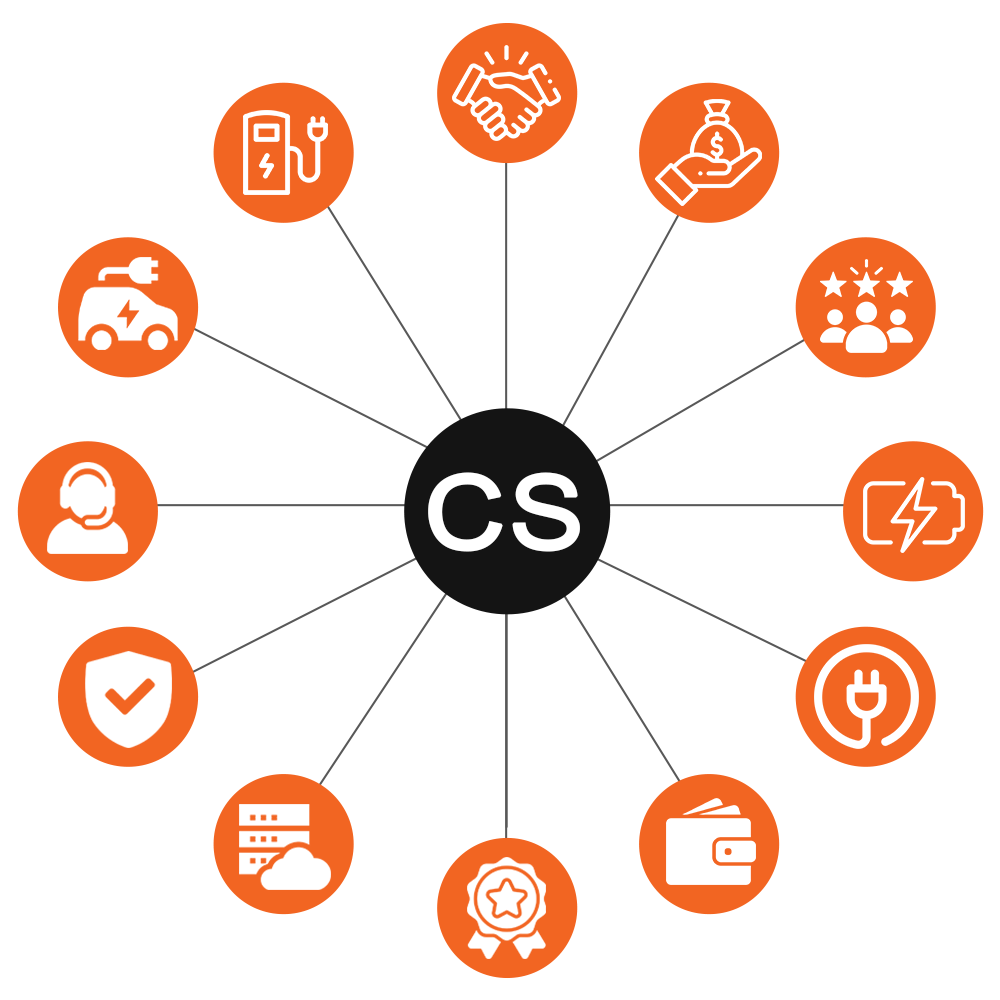
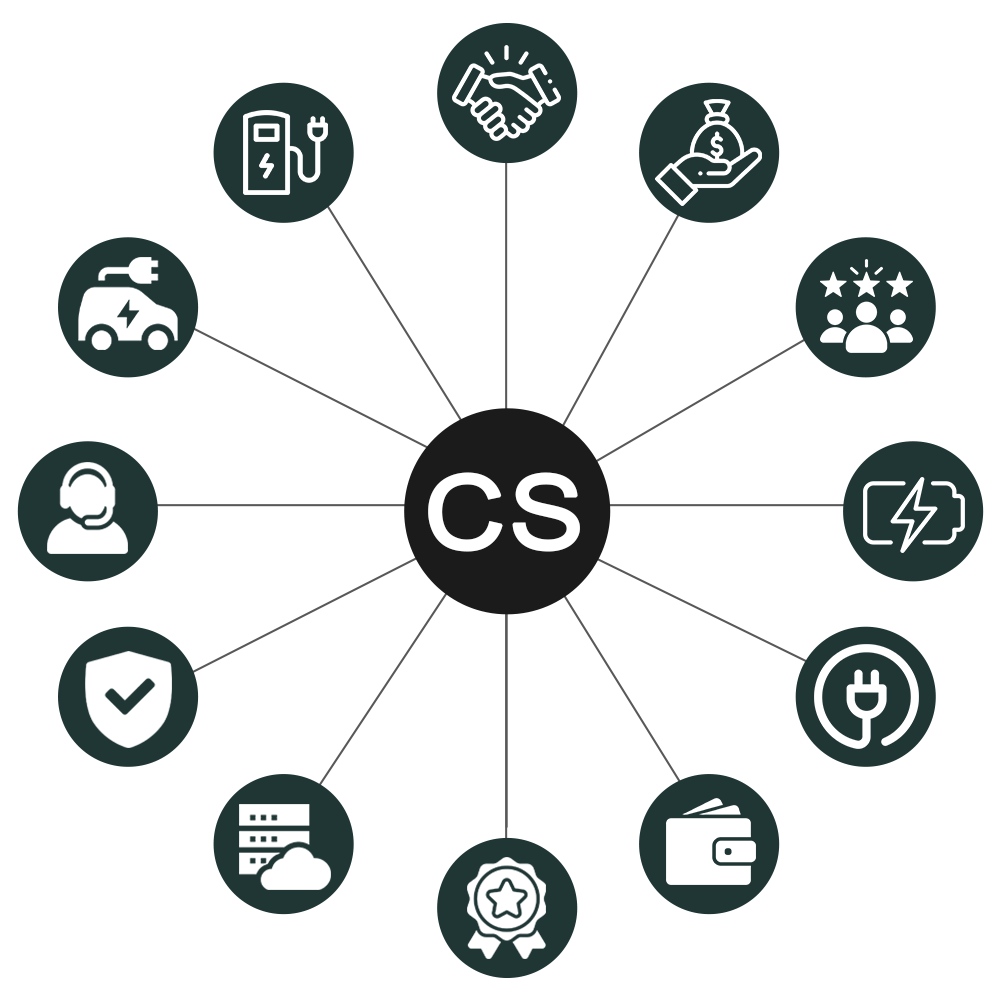
add contact page and about us page

diff --git a/assets/css/main.css b/assets/css/main.css
@@ -538,7 +538,7 @@ section {
     inset: 0;
     padding: 50px 0 10px 0;
     margin: 0;
-    background: #f26522;
+    background: #17a398;
     overflow-y: auto;
     transition: 0.3s;
     z-index: 9998;
@@ -594,7 +594,7 @@ section {
     padding: 10px 0;
     margin: 10px 20px;
     transition: all 0.5s ease-in-out;
-    background-color: #f26522;
+    background-color: #17a398;
 
   }
 
@@ -3505,9 +3505,10 @@ a:hover {
   -ms-flex-align: center;
   align-items: center;
   border-radius: 6px;
-  background-color: #f26522;
+  background-color: #17a398;
   color: #fff;
   cursor: pointer;
+  border: none;
 }
 
 .sub-send-btn {

diff --git a/application/views/footer.php b/application/views/footer.php
@@ -11,7 +11,7 @@
 
 .social_icon {
     font-size: 25px;
-    color: #f26522 !important;
+    color: #17a398 !important;
     display: none;
 }
 
@@ -38,7 +38,7 @@ hr {
 .formContainer {
     max-width: 700px;
     padding: 20px;
-    background-color: #f26522;
+    background-color: #17a398;
 }
 
 
@@ -184,7 +184,7 @@ hr {
         </div>
     </div>
 </div>
-<footer class="footer-no-negative wf-section">
+<footer class="footer-no-negative wf-section pb-0">
     <div>
         <div class="container">
             <div class="  footer-row-1 row tc" style="    justify-content: space-around;">

diff --git a/application/views/main.php b/application/views/main.php
@@ -358,7 +358,7 @@ font-weight: 600;
           Read the reviews
         </h1>
       </div>
-      <div class="splide testi mt-5" role="group" aria-label="Splide Basic HTML Example">
+      <div class="splide testi mt-0" role="group" aria-label="Splide Basic HTML Example">
         <div class="splide__track">
           <ul class="splide__list">
             <li class="splide__slide">

diff --git a/application/views/Header.php b/application/views/Header.php
@@ -47,7 +47,11 @@
   <link href="
   https://cdn.jsdelivr.net/npm/@splidejs/splide@4.1.4/dist/css/splide.min.css
   " rel="stylesheet">
-    
+    <style>
+        .aside-btn{
+            background-color: #17a398 !important;
+        color:#fff !important;}
+    </style>
 </head>
 
 <body>
